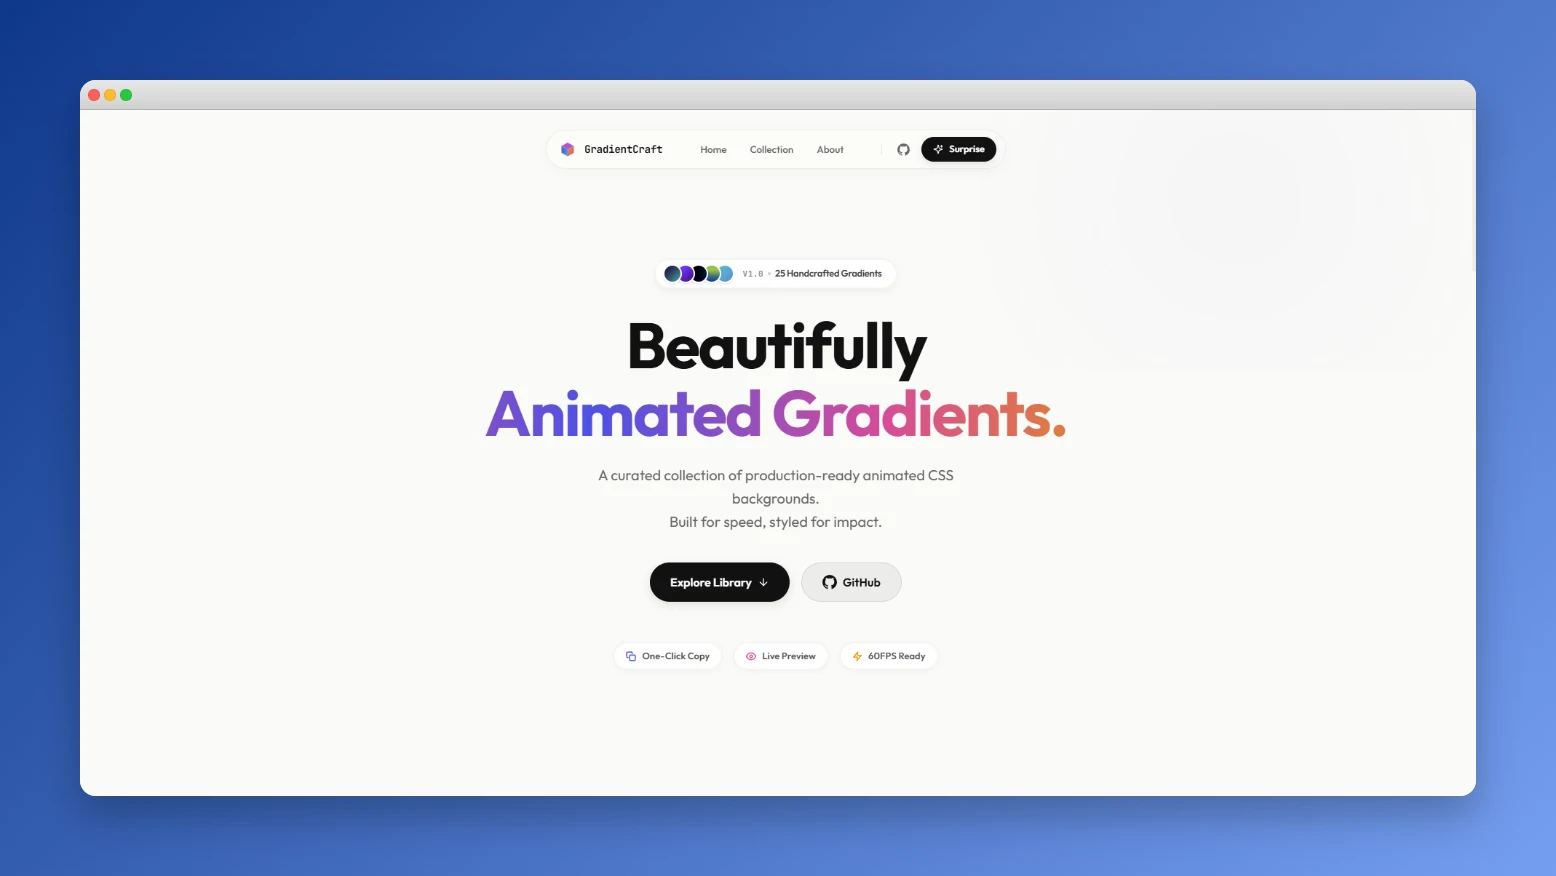
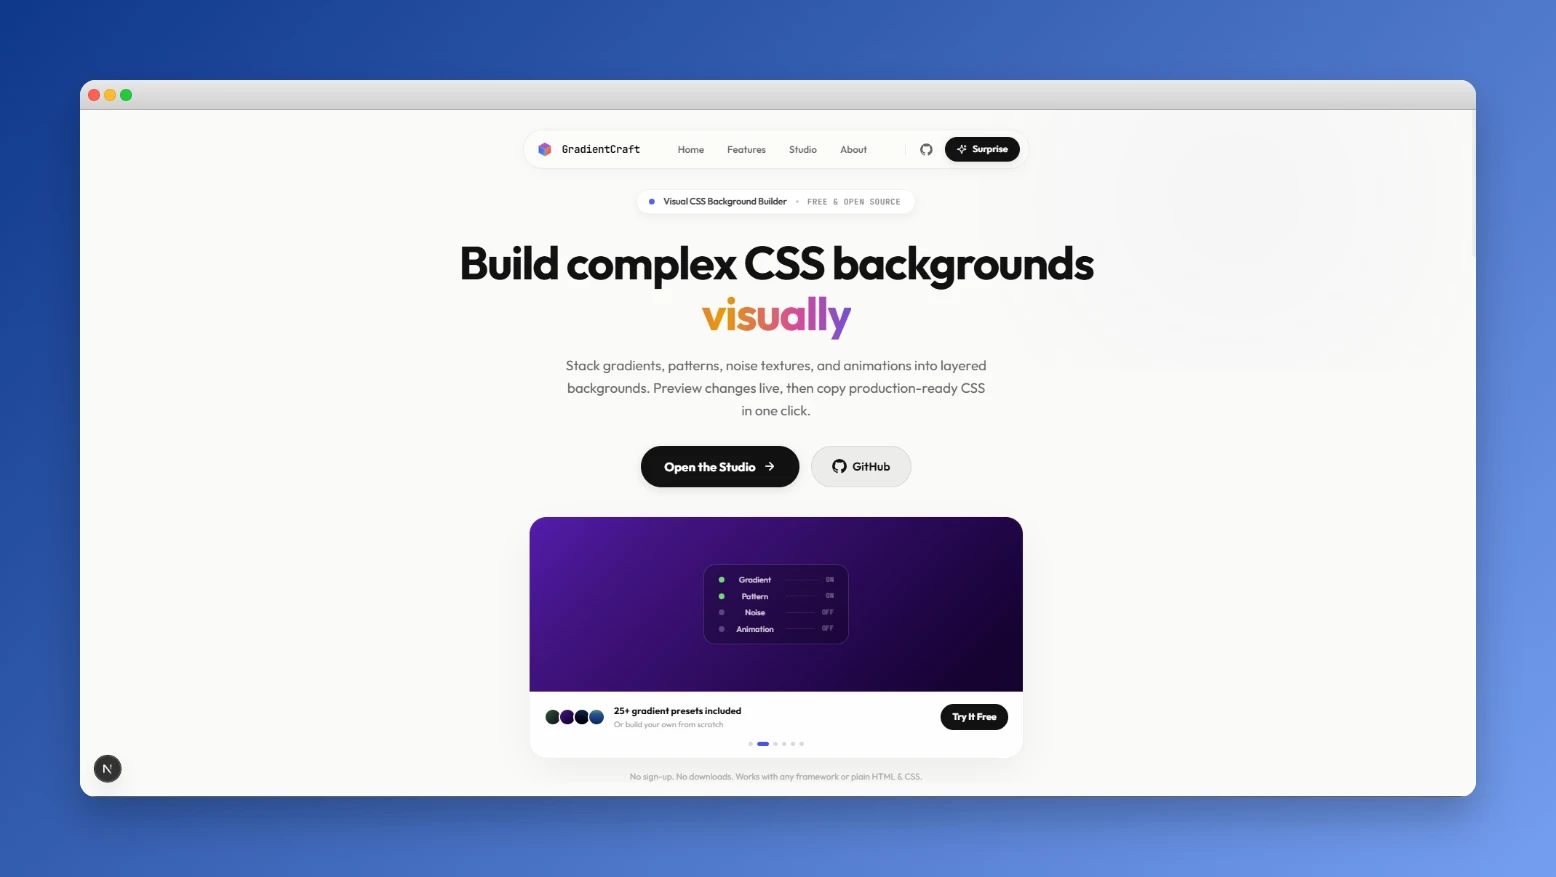
rewrite README for CSS Background Studio
Updated project description, features list, project structure,
and added section explaining CSS generation architecture.

diff --git a/README.md b/README.md
@@ -1,53 +1,60 @@
-# GradientCraft — Animated CSS Backgrounds for the Modern Web
+# GradientCraft — CSS Background Studio
 
 > **Live site → [gradientcraft.fun](https://gradientcraft.fun)**
 
-A curated collection of **production-ready animated CSS backgrounds** you can drop into any project in seconds. Browse, preview full-page, tune the animation live, and copy the complete CSS + `@keyframes` in one click.
+A visual **CSS background composer** that lets you stack gradients, patterns, noise textures, and animations into layered backgrounds. Preview changes live, then copy production-ready CSS in one click.
 
-### 🎥 Video Demo
+### Video Demo
 
 <p align="center">
   <video src="public/gradient-craft.mp4" width="100%" controls autoplay loop muted></video>
 </p>
 
 <p align="center">
-  <img src="public/slide_1.webp" width="100%" alt="GradientCraft Preview" />
+  <img src="public/slide_1.webp" width="100%" alt="GradientCraft Studio" />
 </p>
 
 <p align="center">
-  <img src="public/slide_2.webp" width="49%" alt="GradientCraft Collection" />
+  <img src="public/slide_2.webp" width="49%" alt="GradientCraft Layers" />
   <img src="public/slide_3.webp" width="49%" alt="GradientCraft Controls" />
 </p>
 
 ---
 
-## What makes this different from pattern libraries?
+## What is this?
 
-Tools like PatternCraft give you static CSS patterns (grids, dots, stripes). GradientCraft is focused entirely on **animated** backgrounds — every gradient is alive, breathing, and running at 60FPS using pure CSS keyframes with zero JavaScript on the animation thread.
+Most CSS background tools only handle one thing — a gradient picker, a pattern generator, or a noise tool. GradientCraft Studio combines all of them into a single layered compositor. You toggle layers on/off, adjust their properties with sliders, and the studio generates one clean CSS block that stacks everything together.
 
-| Feature | GradientCraft | Static Pattern Libraries |
+| Feature | GradientCraft Studio | Single-purpose tools |
 |---|---|---|
-| Animated backgrounds | ✅ | ❌ |
-| Full-page live preview | ✅ | ❌ |
-| Real-time animation controls | ✅ | ❌ |
-| Zero JS runtime overhead | ✅ | ✅ |
-| One-click CSS copy | ✅ | ✅ |
+| Layered background composing | Yes | No |
+| Gradient + Pattern + Noise + Animation | Yes | One at a time |
+| Live preview | Yes | Varies |
+| One-click CSS export | Yes | Yes |
+| Zero JS in output | Yes | Yes |
 
 ---
 
-## ✨ Features
+## Features
 
-- **Zero JS Runtime** — Every animation runs on pure CSS keyframes. No libraries, no main-thread blocking, consistent 60FPS.
-- **Full-Page Preview** — Click any gradient to apply it as your page background and experience it at full scale.
-- **Real-Time Controls** — Adjust speed, direction (normal / reverse / alternate), timing function, and pause — all live before you copy.
-- **One-Click Copy** — Copies the complete `background`, `animation`, and `@keyframes` CSS. Works in React, Next.js, Vue, or plain HTML.
-- **6 Curated Categories** — Aurora, Warm, Cool, Neon, Pastel, and Shimmer.
-- **Surprise Me** — Instantly jumps to a random gradient for quick inspiration.
-- **Ultra Responsive** — Fully optimized from mobile to ultrawide.
+**5 composable layers** — each toggleable independently:
+
+- **Base Color** — Solid background color with hex input and preset swatches
+- **Gradient** — Linear, radial, or conic with custom angles, 2-6 color stops, and 25+ presets
+- **Pattern** — Dots, grids, lines, diagonals, checkerboards, crosses — adjustable size, color, and opacity
+- **Noise / Grain** — SVG-based feTurbulence noise with intensity and opacity controls
+- **Animation** — GPU-powered CSS keyframe animations with speed (0.25x-3x) and direction control
+
+**Studio UX:**
+
+- Accordion-based right sidebar — all layers visible, expand to edit, visibility toggle on each header
+- Live preview takes up the main canvas area
+- One-click Copy CSS generates stacked `background-image`, `background-size`, `background-color`, `animation`, and `@keyframes`
+- Output is pure CSS — no JavaScript, no dependencies, works anywhere
 
 ---
 
-## 🛠 Tech Stack
+## Tech Stack
 
 | | |
 |---|---|
@@ -59,7 +66,7 @@ Tools like PatternCraft give you static CSS patterns (grids, dots, stripes). Gra
 
 ---
 
-## 🚀 Getting Started
+## Getting Started
 
 Requires [Bun](https://bun.sh/) installed on your machine.
 
@@ -75,7 +82,7 @@ bun install
 bun dev
 ```
 
-Open [http://localhost:3000](http://localhost:3000).
+Open [http://localhost:3000](http://localhost:3000) for the landing page, or go directly to [http://localhost:3000/studio](http://localhost:3000/studio) for the editor.
 
 ```bash
 # Production build
@@ -85,38 +92,55 @@ bun start
 
 ---
 
-## 📂 Project Structure
+## Project Structure
 
 ```
 src/
-├── app/           # Next.js App Router, global styles
+├── app/
+│   ├── page.tsx           # Landing page (studio marketing)
+│   └── studio/page.tsx    # Studio editor (main tool)
 ├── components/
-│   ├── gradients/ # GradientCard, GradientCollection, AnimationControls, GradientBackground
-│   ├── home/      # Hero, About sections
-│   ├── layout/    # Navbar, Footer
-│   └── ui/        # Logo, Icons, shared primitives
+│   ├── studio/            # Preview panel, controls panel, layer controls
+│   │   └── layers/        # Base, gradient, pattern, noise, animation controls
+│   ├── home/              # Hero, HowItWorks, Features, About sections
+│   ├── layout/            # Navbar, Footer
+│   └── ui/                # Logo, Icons, shared primitives
 ├── data/
-│   └── gradients.ts  # All gradient definitions (CSS + keyframes registry)
-└── types/         # TypeScript interfaces
+│   └── gradients.ts       # Gradient presets + keyframes registry
+├── lib/
+│   └── studio-css.ts      # CSS generation: generateCSS(), computePreviewStyle()
+└── types/
+    └── studio.ts          # StudioState, layer interfaces, defaults
 ```
 
 ---
 
-## 🤝 Contributing
+## How the CSS generation works
 
-Got a beautiful animated gradient to share? PRs are welcome.
+The studio maintains a `StudioState` object with 5 layer configs. Two pure functions handle output:
+
+- `computePreviewStyle(state)` — returns a `CSSProperties` object for the live preview
+- `generateCSS(state)` — returns a formatted CSS string for copy/export
+
+Layers stack as a `background-image` array: noise (top) → pattern → gradient (bottom), with matching `background-size` values. Noise uses an inline SVG data URI with `feTurbulence`. Animations reference keyframes from the preset library.
+
+---
+
+## Contributing
+
+PRs are welcome — whether it's new gradient presets, pattern types, or UX improvements.
 
 1. Fork the repo
-2. Create a branch: `git checkout -b feature/YourGradientName`
-3. Add your gradient to `src/data/gradients.ts` following the existing schema
+2. Create a branch: `git checkout -b feature/your-feature`
+3. Make your changes
 4. Open a Pull Request
 
 ---
 
-## 📄 License
+## License
 
 MIT — free to use in personal and commercial projects. See [`LICENSE`](LICENSE).
 
 ---
 
-<p align="center">Handcrafted with ❤ for the creative web · <a href="https://gradientcraft.fun">gradientcraft.fun</a></p>
+<p align="center">Built by <a href="https://github.com/Nandhu125">Nandhu</a> · <a href="https://gradientcraft.fun">gradientcraft.fun</a></p>
